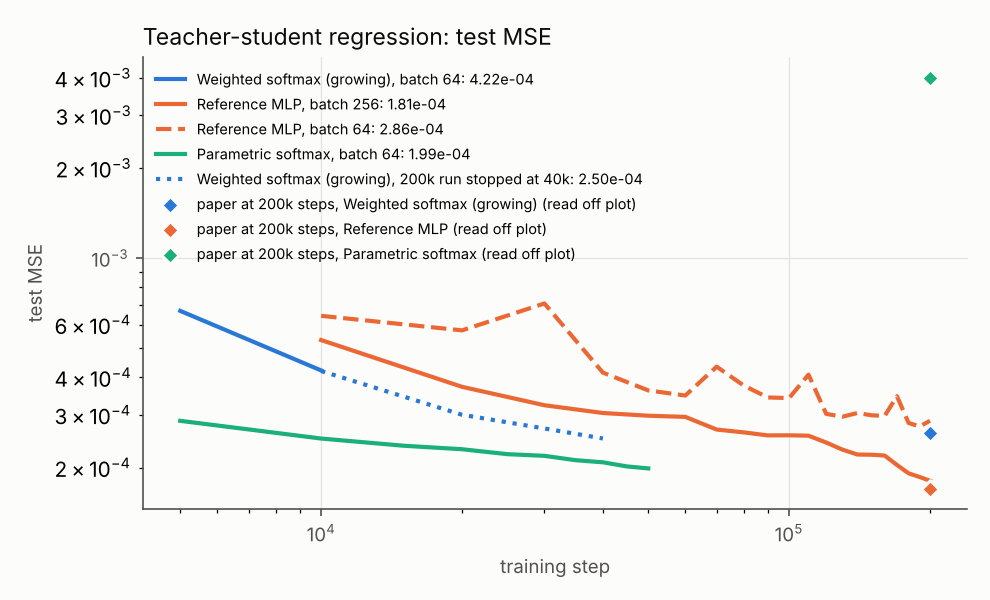
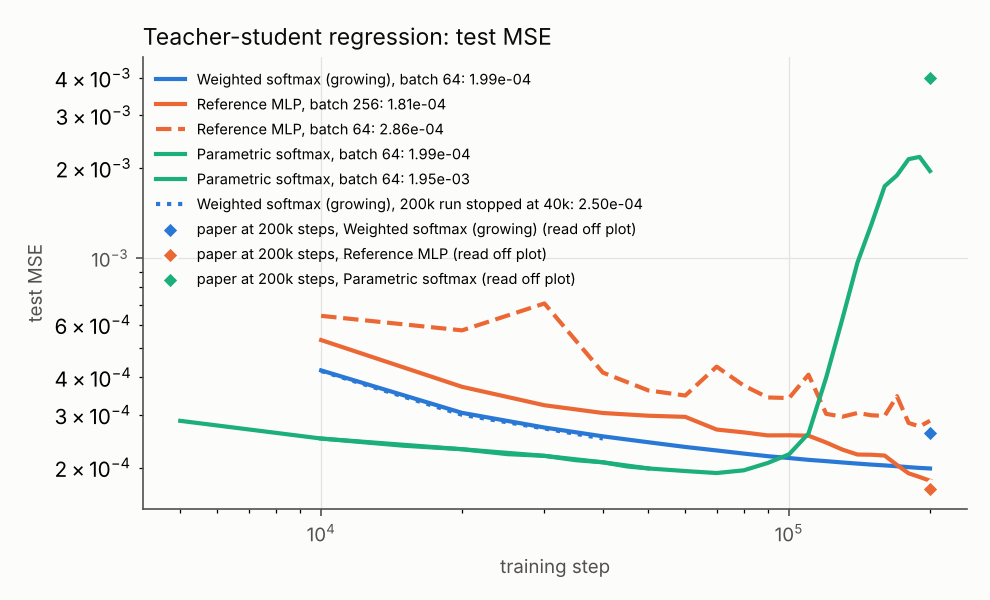
Teacher-student 200k finals (GWS 1.99e-4, PSM 1.95e-3): claim 10 reproduced at the endpoint; augmentation prefetch thread; TF32 switch
Claude-Session: https://claude.ai/code/session_01RLNGfWX7myMbpBLDNmpMEp

diff --git a/rcdl/train.py b/rcdl/train.py
@@ -4,6 +4,7 @@ import dataclasses as dc
 import json
 import os
 import time
+from concurrent.futures import ThreadPoolExecutor
 from typing import Any, Dict, Optional, Tuple
 
 import numpy as np
@@ -188,7 +189,8 @@ def run_rcdl_experiment(cfg: RCDLConfig, data, out_dir: Optional[str] = None, ev
       json.dump(dc.asdict(cfg) | {'eval_every': eval_every, 'eval_subset': eval_subset, 'input_grad': input_grad,
                                   'train_subset': train_subset,
                                   'max_steps': max_steps, 'torch': torch.__version__,
-                                  'threads': torch.get_num_threads(), 'device': str(train_x.device)}, f, indent=1)
+                                  'threads': torch.get_num_threads(), 'device': str(train_x.device),
+                                  'tf32': torch.backends.cuda.matmul.allow_tf32}, f, indent=1)
     eval_log = open(os.path.join(out_dir, 'evals.jsonl'), 'w')
 
   n, B = len(train_x), cfg.batch_size
@@ -220,11 +222,19 @@ def run_rcdl_experiment(cfg: RCDLConfig, data, out_dir: Optional[str] = None, ev
   evaluate_and_log(0, final=False)
   step, perm, order_gen = 0, None, torch.Generator().manual_seed(cfg.global_init_seed)
   aug_gen = np.random.default_rng(cfg.global_init_seed)
+  # Augmentation runs on the CPU (about 2.7 s per CIFAR epoch on a Colab VM). One worker thread prepares epoch e + 1
+  # while epoch e trains; it draws from aug_gen in the same order as a serial loop, so the images are identical.
+  augment = lambda: standardize(augment_epoch(train_u8, aug_gen), cfg.dataset)
+  aug_pool = ThreadPoolExecutor(max_workers=1) if cfg.augment else None
+  next_aug = aug_pool.submit(augment) if cfg.augment else None
   for epoch in range(cfg.num_epochs):
     perm = torch.randperm(n, generator=order_gen).to(train_x.device)
     epoch_x = train_x
     if cfg.augment:
-      epoch_x = torch.as_tensor(standardize(augment_epoch(train_u8, aug_gen), cfg.dataset), device=train_x.device)
+      epoch_np = next_aug.result()
+      if epoch + 1 < cfg.num_epochs and step < total_steps:
+        next_aug = aug_pool.submit(augment)
+      epoch_x = torch.as_tensor(epoch_np, device=train_x.device)
     for batch_idx in range(steps_per_epoch):
       if step >= total_steps:
         break
@@ -240,6 +250,8 @@ def run_rcdl_experiment(cfg: RCDLConfig, data, out_dir: Optional[str] = None, ev
               flush=True)
       if step % eval_every == 0 and step != total_steps:
         evaluate_and_log(step)
+  if aug_pool is not None:
+    aug_pool.shutdown(wait=False)
   evaluate_and_log(step, final=True)
 
   elapsed = time.time() - start_time

diff --git a/experiments/run.py b/experiments/run.py
@@ -16,6 +16,10 @@ import os
 
 import torch
 
+if os.environ.get('RCDL_TF32') == '1':     # TF32 tensor cores for fp32 matmuls (A100/L4); default: exact fp32
+  torch.backends.cuda.matmul.allow_tf32 = True
+  torch.backends.cudnn.allow_tf32 = True
+
 from rcdl.data import load_cifar10_tensors
 from rcdl.layers import RCDLConfig
 from rcdl.train import run_rcdl_experiment

diff --git a/docs/REPRODUCTION.md b/docs/REPRODUCTION.md
@@ -23,7 +23,7 @@ Budget: about 12 GPU-hours on Colab (L4 and A100-40GB) plus a 4-core CPU. "Repro
 | 7 | The mesa layer over the dual form is the FOOF optimizer (Sec. 4) | Reproduced (exact) | §3 |
 | 8 | Single pass on CIFAR-10: GWS 59.4 ± 0.4, RBF 58.8 ± 0.2, gauge 58.4 ± 0.4; all above Muon, Adam, SGD, Mesa, Delta (Fig. 2 right, App. F.2) | Reproduced: 59.41 ± 0.22, 59.10 ± 0.62, 58.62 ± 0.44; best baseline Muon 57.41 ± 0.52 | §4 |
 | 9 | Kernel ridge regression (~58.5) and kNN (~35.5) on pixels (Fig. 2 right) | Reproduced (58.55, 35.64); GWS is only 0.9 points above exact kernel ridge regression | §6 |
-| 10 | Teacher-student: GWS far below the parametric softmax; MLP student best (Fig. 3) | Not reproduced. The MLP reaches the paper's value at 200k steps (1.81e-4 vs ~1.7e-4), and GWS reaches the paper's 200k value by 40k steps (2.5e-4). But the parametric softmax is the best student at every step measured (2.0e-4 at 50k, against GWS 2.5e-4 at 40k and the MLP 3.0e-4 at 50k), not 15 times worse. The 200k-step GWS and softmax runs were lost with the A100 session | §7.3 |
+| 10 | Teacher-student: GWS far below the parametric softmax; MLP student best (Fig. 3) | Reproduced at the paper's endpoint (200k steps): MLP 1.81e-4 < GWS 1.99e-4 < parametric softmax 1.95e-3 (paper ~1.7e-4 / ~2.6e-4 / ~4e-3). Nuance: the parametric softmax is the best student up to ~80k steps (1.9e-4), then degrades without a learning-rate schedule | §7.3 |
 | 11 | 50 epochs: GWS and RBF beat Adam/AdamW/RMSprop/SGD, below Muon; Mesa best on CIFAR-100 (Fig. 2 left) | Partly: Muon 69.5, Adam 64.7 and SGD 59.8 reproduce. GWS at L = 0 (61.9) beats SGD but not Adam; L = 2 at 50 epochs needs about 154 GB, but L = 2 at 10 epochs (65.1) already equals Adam at 50. CIFAR-100 and Mesa at 50 epochs: not obtained (A100 session lost) | §7.2, §7.4 |
 | 12 | Training loss falls much faster for GWS and RBF (Fig. 2 middle) | Reproduced for L = 2 (online loss 0.75 after 10 epochs; Muon 1.12, Adam 1.31) and in one pass (1.20 against Muon 1.26) | §7.4, figure |
 | 13 | Depth helps up to 2 hidden layers; temperature effect is non-monotonic (Fig. 4 left) | Reproduced. Depth: one pass 53.5 / 58.5 / 59.4, 10 epochs 58.6 / 63.8 / 65.1 for L = 0 / 1 / 2. Temperature (L = 0, 10 epochs): 53.5 / 58.6 / 51.3 for T = 3 / 10 / 30 | §5.1, §7.4 |
@@ -288,8 +288,8 @@ Final runs at the paper's 200,000 steps (test MSE; relative MSE in brackets):
 |---|---|---|---|---|---|
 | MLP, batch 256, lr 0.3 | 5.33e-4 | 2.98e-4 | 2.56e-4 | **1.81e-4** (0.041) | ~1.7e-4 |
 | MLP, batch 64, lr 0.1 | 6.42e-4 | 3.62e-4 | 3.41e-4 | 2.86e-4 (0.065) | |
-| GWS (β = 1, η = 30, T = 1, momentum 0.9) | 4.22e-4 | 2.5e-4 at 40k (run stopped) | not run | not run (A100 session lost) | ~2.6e-4 |
-| Parametric softmax, 640,064 trained keys, Adam 1e-3, T = 0.1 | 2.5e-4 | **2.0e-4** (0.045) | not run | not run (A100 session lost) | ~4e-3 |
+| GWS (β = 1, η = 30, T = 1, momentum 0.9) | 4.22e-4 | 2.43e-4 | 2.15e-4 | **1.99e-4** (0.045) | ~2.6e-4 |
+| Parametric softmax, 640,064 trained keys, Adam 1e-3, T = 0.1 | 2.5e-4 | 1.99e-4 | 2.21e-4 | **1.95e-3** (0.44) | ~4e-3 |
 
 Parametric softmax at 10,000 steps (`psm_sweep_small`, 640,064 trained keys, Adam): lr 1e-3 with T = 0.1 gives 2.5e-4 (relative 0.056), T = 1 gives 1.3e-3; lr 3e-3 with T = 0.1 becomes unstable (4.6e-4 at 5k steps, 3.2e-3 at 10k). At 10,000 steps the best parametric softmax is therefore ahead of both GWS (4.2e-4) and the MLP (5.3e-4). This contradicts the paper's ordering. Differences from the paper: 640,064 instead of 10.24M trained keys, Adam β1 = 0.9 instead of 0.85, keys initialized N(0, 1/d) (the paper does not state its initialization). An earlier partial 200k-step GWS run on the L4 (stopped at 40,000 steps to move it to the A100) gave 3.0e-4 at 20k, 2.7e-4 at 30k and 2.5e-4 at 40k steps (relative 0.069, 0.062, 0.058).
 
@@ -309,8 +309,8 @@ Findings:
 - Only β/η matters here too, so the paper's 3 × 3 grid over (β, η) holds 5 distinct settings.
 - T = 0.1 diverges for every setting.
 - With momentum 0.6 and at T = 3, the best ratio is the grid's largest (0.1), so the grid edge limits those rows.
-- At 10,000 steps GWS is ahead of the best MLP. With more steps the MLP catches up: at 200,000 steps (batch 256) it reaches 1.81e-4, the paper's value. GWS reached the paper's 200,000-step value (2.6e-4) by 40,000 steps; its own 200,000-step value was not obtained.
-- **The parametric softmax is the strongest student here**, the opposite of the paper's claim. With 640,064 trained keys (16 times fewer than the paper's 10.24M), Adam 1e-3 and T = 0.1, it reaches 2.5e-4 at 10,000 steps and 2.0e-4 at 50,000 steps (relative MSE 0.045), still falling. At equal steps it is ahead of GWS (2.5e-4 at 40,000) and of the MLP (3.0e-4 at 50,000). The paper reports about 4e-3 at 200,000 steps, near the target variance. Plausible reasons for the gap: initialization and temperature (the paper's grid includes T = 0.1 but does not state the selected value or the key initialization), and the much larger table, which makes each key's Adam update rarer. The paper's verdict on this baseline needs a stronger tuning protocol before it can stand.
+- At 10,000 steps GWS is ahead of the best MLP. With more steps the MLP catches up: at 200,000 steps it reaches 1.81e-4 (batch 256), just below GWS at 1.99e-4. Both match the paper's values (~1.7e-4 and ~2.6e-4). The 200,000-step GWS and parametric-softmax runs ran on a second A100 session (14.8 and 25.5 minutes).
+- **The parametric softmax is the best student for the first 80,000 steps, then it degrades.** With 640,064 trained keys (16 times fewer than the paper's 10.24M), Adam 1e-3 and T = 0.1, it reaches 2.5e-4 at 10,000 steps and its best value, 1.9e-4, at 60,000-70,000 steps, ahead of GWS and the MLP at equal steps. From about 100,000 steps on, its error rises (4.0e-4 at 120k, 1.3e-3 at 150k, 1.95e-3 at 200k), with no learning-rate decay. At the paper's endpoint of 200,000 steps it is 10 times worse than GWS, in line with the paper's ~4e-3. So the paper's ordering holds at the endpoint it reports, but it comes from late instability of the baseline, not from worse learning throughout. A learning-rate schedule or early stopping would change the comparison.
 - The paper's absolute values are not comparable with ours: it does not state the teacher's output scale, and our Var(y) = 0.0044 is already close to its parametric-softmax value (4e-3).
 
 GPU note: one GWS step at 200,000 steps scans 12.8 million rows for only 64 queries. PyTorch's fused attention runs this on a single GPU block (50 times slower than the dense path on an A100), and the dense path needs about 90 A100-minutes. `rcdl/splitk_attention.py` adds a split-key Triton kernel (each program takes a chunk of rows; the chunk maxima are merged afterwards). It matches the dense path to fp32 rounding (`tests/test_splitk.py`) and is 2.3 times (tf32x3) to 6.6 times (tf32) faster. End-to-end check on the best GWS setting, 10,000 steps on the L4: test MSE 4.2175794e-4 (dense), 4.2175796e-4 (tf32x3), 4.2197e-4 (tf32, 0.05% higher). The 200,000-step run uses tf32.
